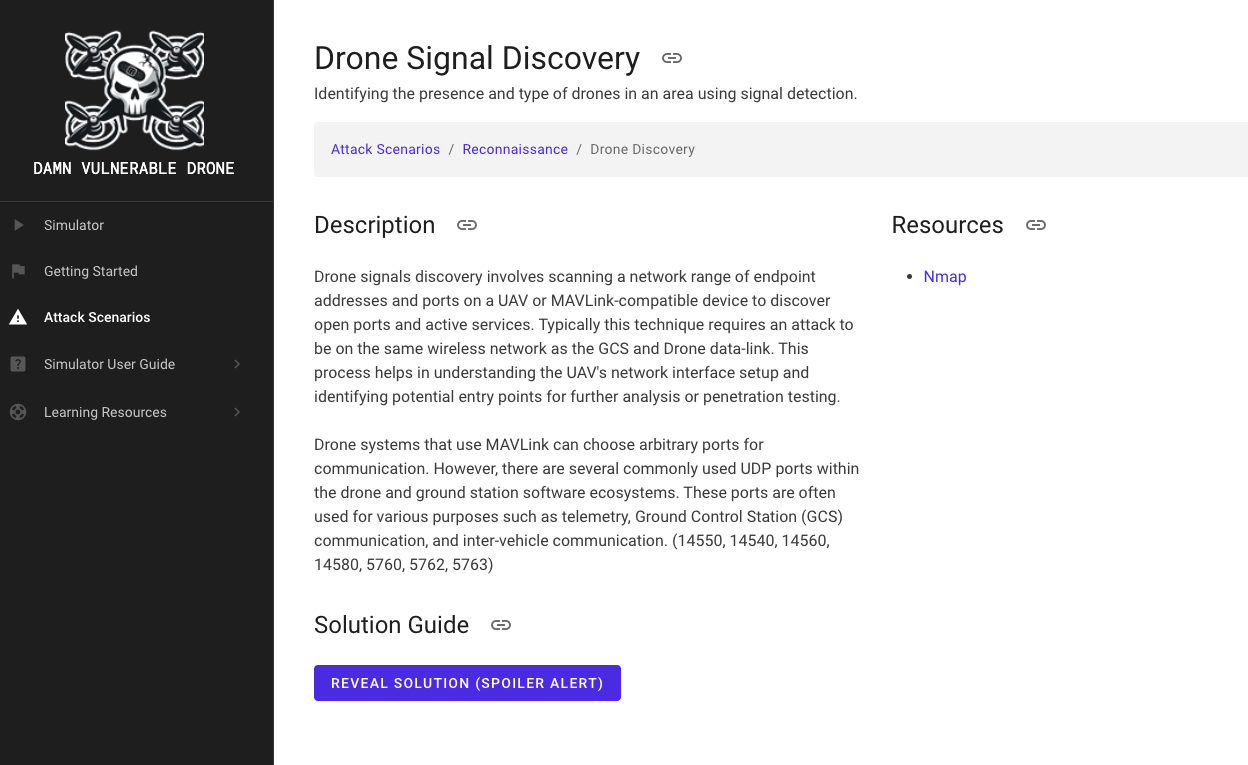
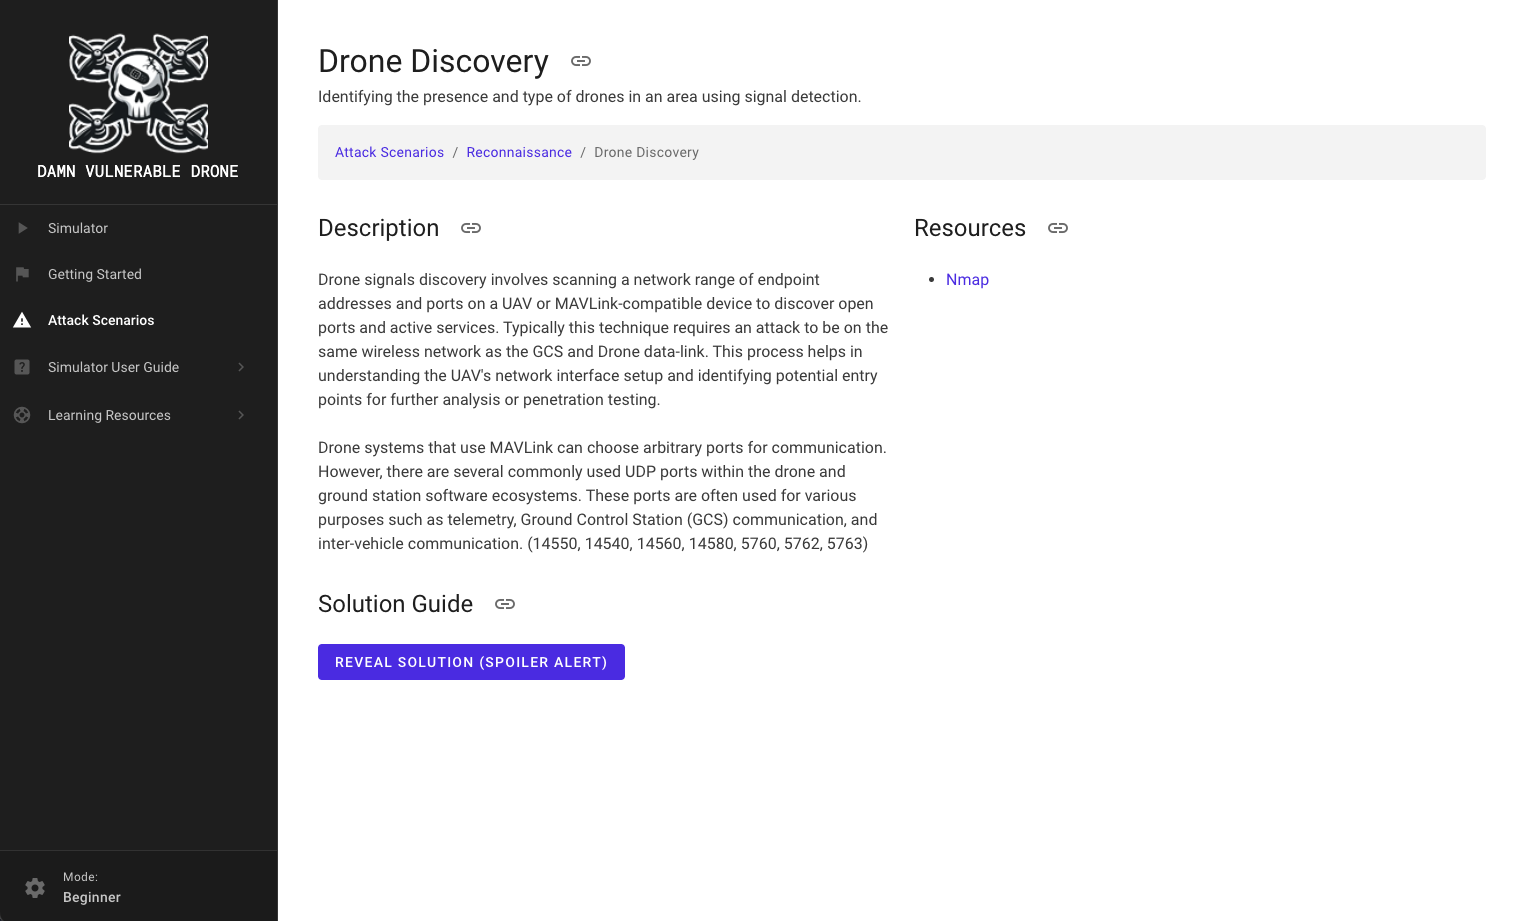
Fixed broken docker build in wifi mode

diff --git a/simulator/mgmt/templates/pages/attacks/recon/wifi-analysis-cracking.html b/simulator/mgmt/templates/pages/attacks/recon/wifi-analysis-cracking.html
@@ -3,13 +3,167 @@
 {% block content %}
 <main>
     <div class="container-xl p-5">
-        <section class="mb-5">
-            <div class="d-flex align-items-center mb-3">
-                <h2 class="mb-0">Wireless Authentication Cracking</h2>
+        <section class="mb-4">
+            <div class="d-flex align-items-center mb-0">
+                <h2 class="mb-0">Wifi Analysis & Cracking</h2>
                 <button class="btn btn-text-dark btn-icon btn-lg text-muted ms-2" type="button"><i class="material-icons">link</i></button>
             </div>
+            <p class="mb-3">
+                Breaking WiFi security to gain unauthorized access to the drone network.
+            </p>
+            <div class="alert bg-light show pb-0" role="alert">
+                <nav aria-label="breadcrumb">
+                    <ol class="breadcrumb">
+                        <li class="breadcrumb-item"><a href="/attacks" class="link">Attack Scenarios</a></li>
+                        <li class="breadcrumb-item"><a href="/attacks/recon" class="link">Reconnaissance</a></li>
+                        <li class="breadcrumb-item active" aria-current="page">Wifi Analysis & Cracking</li>
+                    </ol>
+                </nav>
+            </div>
         </section>
-        <hr class="my-5" />
+        <!-- Knowledgebase content row-->
+        <div class="row gx-5">
+            <div class="col-lg-12">
+                <div class="row">
+                    <div class="col-6">
+                        <div id="description">
+                            <section class="mb-2">
+                                <div class="d-flex align-items-center mb-3">
+                                    <h4 class="mb-0">Description</h4>
+                                    <button class="btn btn-text-dark btn-icon btn-lg text-muted ms-2" type="button"><i class="material-icons">link</i></button>
+                                </div>
+                                <p class="mb-4">
+                                    To penetrate and analyze the security of wireless networks by identifying vulnerabilities in Wi-Fi encryption and authentication mechanisms. This involves capturing network traffic to crack the network's password and gain unauthorized access to the network's data and devices connected to it.</p>
+                                <p class="mb-4">
+                                    Wi-Fi Analysis and Cracking entails the use of specialized software tools to monitor, capture, and analyze Wi-Fi network traffic. This scenario typically begins with the identification of available Wi-Fi networks and the gathering of information such as the network's SSID (Service Set Identifier), BSSID (Basic Service Set Identifier), and the type of encryption used (WPA, WPA2, WEP, etc.). 
+                                </p>
+                            </section>
+                        </div>
+                    </div>
+                    <div class="col-6">
+                        <div id="solution">
+                            <section class="mb-2">
+                                <div class="d-flex align-items-center mb-3">
+                                    <h4 class="mb-0">Resources</h4>
+                                    <button class="btn btn-text-dark btn-icon btn-lg text-muted ms-2" type="button"><i class="material-icons">link</i></button>
+                                </div>
+                                <ul>
+                                    <li><a class="link" target="_blank" href="https://www.wireshark.org/docs/wsug_html_chunked/index.html">Wireshark</a></li>
+                                    <li><a class="link" target="_blank" href="https://www.aircrack-ng.org/doku.php#documentation">Aircrack-ng</a></li>
+                                </ul>
+                            </section>
+                        </div>
+                    </div>
+                </div>
+                <div class="row">
+                    <div class="col-12">
+                        <div id="solution">
+                            <section class="mb-2">
+                                <div class="d-flex align-items-center mb-3">
+                                    <h4 class="mb-0">Solution Guide</h4>
+                                    <button class="btn btn-text-dark btn-icon btn-lg text-muted ms-2" type="button"><i class="material-icons">link</i></button>
+                                </div>
+                                <p>
+                                    <a class="btn btn-primary" data-bs-toggle="collapse" href="#collapseSolution" role="button" aria-expanded="false" aria-controls="collapseSolution">
+                                    Reveal Solution (Spoiler Alert)
+                                    </a>
+                                </p>
+                                <div class="collapse" id="collapseSolution">
+                                    <div class="row">
+                                        <div class="col-md-6">
+                                            <h4 class="mb-3">Non-Wifi-Mode (Half-Baked)</h4>
+                                            <div class="row">
+                                                <div class="col-12">
+                                                    <div class="alert alert-success">
+                                                        <h5 class="mb-3">Step 1. Ensure Docker Bridge Connection</h5>
+                                                        <p>
+                                                            Verify you are connected to the Docker bridge network, you can do this by running the following command:
+                                                        </p>
+
+                                                        <code class="code mb-3">
+                                                            ifconfig
+                                                        </code>
+
+                                                        <p>
+                                                            You should have a bridge network with an IP address within the range of 10.13.0.0/24.
+                                                        </p>
+
+                                                        <h5 class="mb-3">Step 2. Host Discovery</h5>
+                                                        <p>
+                                                            Use Nmap to scan the network range.
+                                                        </p>
+                                                        
+                                                        <code class="code mb-3">
+                                                            nmap -sn 10.13.0.0/24 
+                                                        </code>
+
+                                                        <p>
+                                                            After running this scan you should be able to identify the IP address of hosts on the network.
+                                                        </p>
+
+                                                        <h5 class="mb-3">Step 3. MAVLink Port Scan</h5>
+                                                        <p>
+                                                            Use Nmap to scan the specific network ports of each host to identify UAV or MAVLink-compatible services.
+                                                        </p>
+                                                        
+                                                        <code class="code mb-3">
+                                                            nmap 10.13.0.0/24 -p 14550,14540,14560,14580,5760,5762,5763
+                                                        </code>
+
+                                                        <p>
+                                                            After running this scan you should be able to identify the open ports and active services on the drone and the ground control station.
+                                                        </p>
+                                                    </div>
+                                                </div>
+                                            </div>
+                                        </div>
+                                        <div class="col-md-6">
+                                            <h4 class="mb-3">Wifi-Mode (Full-Deploy)</h4>
+                                            <div class="row">
+                                                <div class="col-12">
+                                                    <div class="alert alert-success">
+                                                        <h5 class="mb-3">Step 1. Connect to Wifi Network</h5>
+                                                        <p>
+                                                            Use your access gained from: <a href="/attacks/recon/wifi-analysis-cracking">Wireless Analysis & Cracking</a>
+                                                        </p>
+
+                                                        <h5 class="mb-3">Step 2. Host Discovery</h5>
+                                                        <p>
+                                                            Use Nmap to scan the network range.
+                                                        </p>
+                                                        
+                                                        <code class="code mb-3">
+                                                            nmap -sn 192.168.13.0/24 
+                                                        </code>
+
+                                                        <p>
+                                                            After running this scan you should be able to identify the IP address of hosts on the network.
+                                                        </p>
+
+                                                        <h5 class="mb-3">Step 3. MAVLink Port Scan</h5>
+                                                        <p>
+                                                            Use Nmap to scan the specific network ports of each host to identify UAV or MAVLink-compatible services.
+                                                        </p>
+                                                        
+                                                        <code class="code mb-3">
+                                                            nmap 192.168.13.0/24 -p 14550,14540,14560,14580,5760,5762,5763
+                                                        </code>
+
+                                                        <p>
+                                                            After running this scan you should be able to identify the open ports and active services on the drone and the ground control station.
+                                                        </p>
+                                                    </div>
+                                                </div>
+                                            </div>
+                                        </div>
+                                    </div>
+                                </div>
+                            </section>
+                        </div>
+                    </div>
+                </div>
+            </div>
+        </div>
     </div>
 </main>
 {% endblock %}

diff --git a/simulator/mgmt/templates/components/sidebar.html b/simulator/mgmt/templates/components/sidebar.html
@@ -55,26 +55,15 @@
                 <!-- Nested drawer nav (Forms)-->
                 <div class="collapse {% if section == 'learning' %}show{% endif %}" id="collapseLearning" aria-labelledby="headingOne" data-bs-parent="#drawerAccordion">
                     <nav class="drawer-menu-nested nav">
-                        <a class="nav-link {% if current_page == 'aircrack-ng' %}active{% endif %}" href="/learning/aircrack-ng">Aircrack-ng</a>
-                        <a class="nav-link {% if current_page == 'wireshark' %}active{% endif %}" href="/learning/wireshark">Wireshark</a>
-                        <a class="nav-link {% if current_page == 'mavlink' %}active{% endif %}" href="/learning/mavlink">MAVLink</a>
-                        <a class="nav-link {% if current_page == 'mavproxy' %}active{% endif %}" href="/learning/mavproxy">MAVProxy</a>
-                        <a class="nav-link {% if current_page == 'ardupilot' %}active{% endif %}" href="/learning/ardupilot">ArduPilot</a>
-                        <a class="nav-link {% if current_page == 'arducopter' %}active{% endif %}" href="/learning/arducopter">ArduCopter</a>
-                        <a class="nav-link {% if current_page == 'sitl' %}active{% endif %}" href="/learning/sitl">SITL Simulation</a>
-                        <a class="nav-link {% if current_page == 'gazebo' %}active{% endif %}" href="/learning/gazebo">Gazebo</a>
-                        <a class="nav-link {% if current_page == 'swarmsec' %}active{% endif %}" href="/learning/swarmsec">SwarmSec</a>
+                        <a class="nav-link {% if current_page == 'aircrack-ng' %}active{% endif %}" target="_blank" href="https://www.aircrack-ng.org/doku.php#documentation">Aircrack-ng</a>
+                        <a class="nav-link {% if current_page == 'wireshark' %}active{% endif %}" target="_blank" href="https://www.wireshark.org/docs/wsug_html_chunked/index.html">Wireshark</a>
+                        <a class="nav-link {% if current_page == 'mavlink' %}active{% endif %}" target="_blank" href="https://mavlink.io/en/">MAVLink</a>
+                        <a class="nav-link {% if current_page == 'mavproxy' %}active{% endif %}" target="_blank" href="https://ardupilot.org/mavproxy/">MAVProxy</a>
+                        <a class="nav-link {% if current_page == 'ardupilot' %}active{% endif %}" target="_blank" href="https://ardupilot.org/ardupilot/">ArduPilot</a>
+                        <a class="nav-link {% if current_page == 'arducopter' %}active{% endif %}" target="_blank" href="https://ardupilot.org/copter/index.html">ArduCopter</a>
+                        <a class="nav-link {% if current_page == 'sitl' %}active{% endif %}" target="_blank" href="https://ardupilot.org/dev/docs/sitl-simulator-software-in-the-loop.html">SITL Simulation</a>
+                        <a class="nav-link {% if current_page == 'gazebo' %}active{% endif %}" target="_blank" href="https://gazebosim.org/docs">Gazebo</a>
                     </nav>
-                </div>
-            </div>
-        </div>
-        <!-- Drawer footer        -->
-        <div class="drawer-footer border-top">
-            <div class="d-flex align-items-center">
-                <i class="material-icons text-muted">settings</i>
-                <div class="ms-3">
-                    <div class="caption">Mode:</div>
-                    <div class="small fw-500">Beginner</div>
                 </div>
             </div>
         </div>

diff --git a/simulator/mgmt/templates/pages/attacks/list.html b/simulator/mgmt/templates/pages/attacks/list.html
@@ -31,7 +31,7 @@
                             </tr>
                             <tr>
                                 <td class="ripple-gray">
-                                    <a class="link" href="/attacks/recon/drone-discovery">Drone Host Discovery</a>
+                                    <a class="link" href="/attacks/recon/drone-discovery">Drone Discovery</a>
                                 </td>
                             </tr>
                             <tr>

diff --git a/simulator/mgmt/templates/pages/attacks/recon/drone-discovery.html b/simulator/mgmt/templates/pages/attacks/recon/drone-discovery.html
@@ -5,7 +5,7 @@
     <div class="container-xl p-5">
         <section class="mb-4">
             <div class="d-flex align-items-center mb-0">
-                <h2 class="mb-0">Drone Host Discovery</h2>
+                <h2 class="mb-0">Drone Discovery</h2>
                 <button class="btn btn-text-dark btn-icon btn-lg text-muted ms-2" type="button"><i class="material-icons">link</i></button>
             </div>
             <p class="mb-3">

diff --git a/Readme.md b/Readme.md
@@ -60,6 +60,7 @@ While the current Damn Vulnerable Drone setup doesn't mirror every drone archite
 - **Simulated Wireless Networking**: Simulated Wifi (802.11) interfaces to practice wireless drone attacks.
 - **Simulator Management Web Console**: Simple to use simulator management web console used to trigger scenarios and drone flight states.
 - **Comprehensive Hacking Scenarios**: Ideal for practicing a wide range of drone hacking techniques, from basic reconnaissance to advanced exploitation.
+- **Detailed Walkthroughs**: If you need help hacking against a particular scenario you can leverage the detailed walkthrough documentation as a spoiler.
 
 ## Architecture
 
@@ -109,7 +110,7 @@ The list of attack scenarios below is organized by stages. Note that some attack
 | Reconnaissance              | Protocol Tampering   | Denial of Service            | Injection                      | Exfiltration           | Firmware Attacks      |
 |-----------------------------|----------------------|------------------------------|--------------------------------|------------------------|-----------------------|
 | Wifi Analysis & Cracking    | Telemetry Spoofing   | Battery Drain Attack         | MAVLink Command Injection      | Flight Log Extraction  | Firmware Decompile    |
-| Drone Signal Discovery      | Flight Mode Spoofing | Communication Link Flooding  | Camera Gimbal Takeover         | Parameter Extraction   | Firmware Modding      |
+| Drone Discovery             | Flight Mode Spoofing | Communication Link Flooding  | Camera Gimbal Takeover         | Parameter Extraction   | Firmware Modding      |
 | Packet Sniffing             | Drone State Spoofing | Denial-of-Takeoff            | Waypoint Injection             | Mission Extraction     |                       |
 | Protocol Fingerprinting     | GPS Spoofing         | Geo-Squeezing                | Sensor Data Injection          | FTP Eavesdropping      |                       |
 | GPS & Telemetry Analysis    |                      | Altitude Limiting            | Flight Mode Injection          | Camera Feed Eavesdropping |                    |
